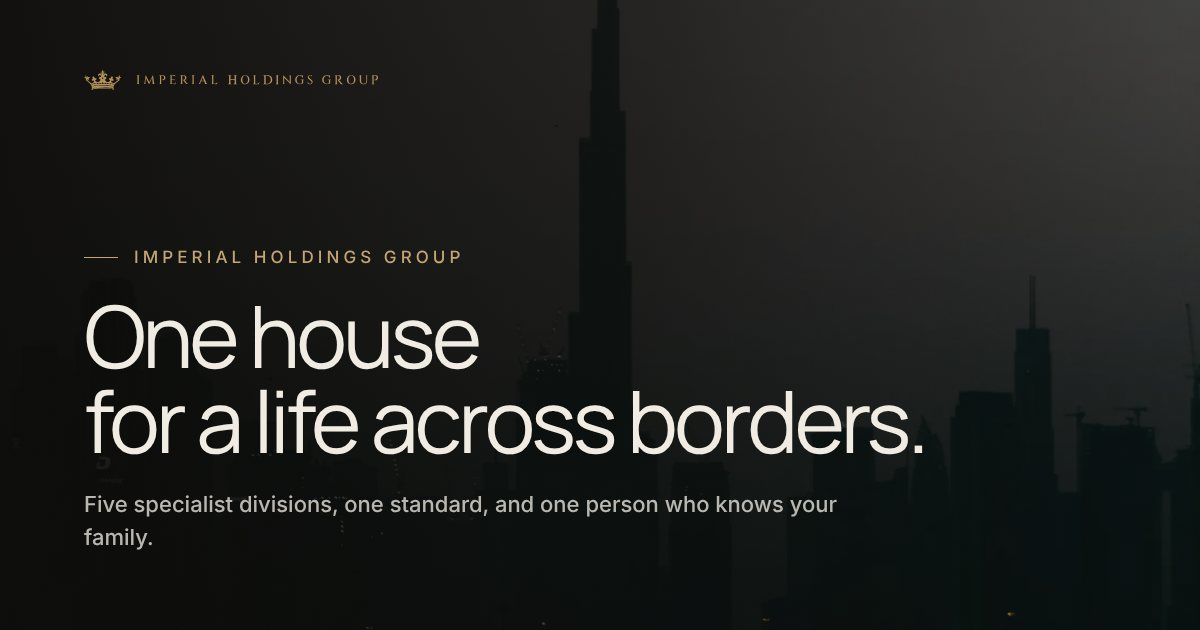
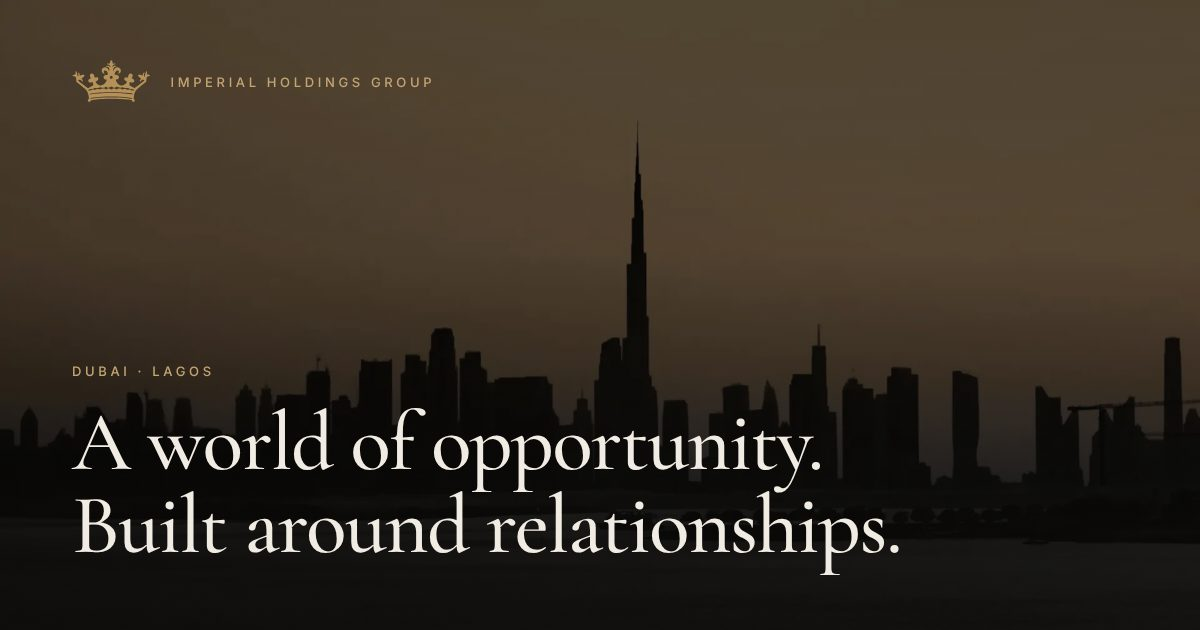
Home hero: Dubai at dusk, the approved copy and an ink map alternative
Export candidate 1 of the photography plan from the Dubai frame (landscape and portrait, cool grade, under 200 KB each) as the single hero layer, and regenerate the share image from it.
Hero copy from the approved option: eyebrow, two line headline, supporting paragraph, Start a relationship and Our divisions.
Drop the night layer, the crossfade and the scroll transform; the hero is no longer pinned.
Add D.hero.style with photo (default) and map, the map being an ink field with the dotted world drawn inline from D.map.
Register the hero photograph with its Unsplash credit.

Claude-Session: https://claude.ai/code/session_01WLDTLCYMrJPXL6atw3Tdtn

diff --git a/assets/js/app.js b/assets/js/app.js
@@ -188,6 +188,25 @@ function fmtTime(tz){try{return new Intl.DateTimeFormat('en-GB',{hour:'2-digit',
    screens, as on the home hero. Every site photograph has a -m file (a 3:4 centre crop of the same frame, so nothing
    changes visually); event photographs and portraits have none. Brief section 4: responsive sizes, LCP on mobile. */
 function heroVariant(k){ return k.indexOf('events/')===0 || k.indexOf('people/')===0 ? '' : '-m'; }
+/* v6: the ink field (docs/PHOTOGRAPHY-PLAN.md 2.1 alternative, section 5). The dotted world already in D.map.path is
+   drawn inline as SVG, cropped to a view in map units (the map is 1440 by 544), with the two offices and one arc where
+   asked: no image file, nothing to credit, nobody to clear. The dots keep their size on screen whatever the crop
+   (vector-effect in site.css), so a tight crop reads as a sparser field, not a coarser one. */
+var INK = {world:[0,0,1440,544], cities:[560,40,640,320], dubai:[761,119,360,200], lagos:[553,194,360,200], europe:[590,0,540,250], gulf:[741,99,400,240], atlantic:[300,30,960,440]};
+var MAP_PTS = null;
+function mapPts(){ if(MAP_PTS) return MAP_PTS; var out = [], re = /M(\d+) (\d+)h0/g, m; while((m = re.exec(D.map.path))) out.push([+m[1], +m[2]]); return (MAP_PTS = out); }
+function inkMap(view, o){
+  o = o || {};
+  var pts = mapPts(), d = '', i, p, x0 = view[0], y0 = view[1], x1 = view[0]+view[2], y1 = view[1]+view[3];
+  for(i=0;i<pts.length;i++){ p = pts[i]; if(p[0]>=x0-8 && p[0]<=x1+8 && p[1]>=y0-8 && p[1]<=y1+8) d += 'M'+p[0]+' '+p[1]+'h0'; }
+  var P = D.map.places, marks = '';
+  if(o.points) P.forEach(function(c){ if(c.x>=x0 && c.x<=x1 && c.y>=y0 && c.y<=y1) marks += '<circle class="ring" cx="'+c.x+'" cy="'+c.y+'" r="11"/><circle class="city" cx="'+c.x+'" cy="'+c.y+'" r="3.5"/>'; });
+  if(o.arc && P.length>1){ var a = P[0], b = P[1], mx = (a.x+b.x)/2, my = Math.min(a.y,b.y)-Math.abs(b.x-a.x)*0.22; marks += '<path class="link" d="M'+a.x+' '+a.y+'Q'+mx.toFixed(0)+' '+my.toFixed(0)+' '+b.x+' '+b.y+'"/>'; }
+  return '<svg class="ink-map'+(o.cls?' '+o.cls:'')+'" viewBox="'+view.join(' ')+'" preserveAspectRatio="xMidYMid meet" aria-hidden="true" focusable="false"><path class="land" d="'+d+'"/>'+marks+'</svg>';
+}
+/* The field itself: the dark ground with a soft lift top right, the map crop when a view is given, and a large outlined
+   numeral when a division asks for one. Decorative, so hidden from assistive technology. */
+function inkField(o){ o = o || {}; return '<div class="ph-ink'+(o.cls?' '+o.cls:'')+'" aria-hidden="true">'+(o.view ? inkMap(o.view, o) : '')+(o.n ? '<span class="ink-n">'+esc(o.n)+'</span>' : '')+'</div>'; }
 function pageHero(o){
   var k = o.img ? safePhoto(o.img, o.fb) : '', v = k ? heroVariant(k) : '';
   var bg = k ? '<div class="ph-bg"><div class="px">'+(v ? '<picture><source media="(max-width:640px)" srcset="'+IMG+k+v+'.webp" sizes="100vw">' : '')+img(k, null, '', '', true)+(v ? '</picture>' : '')+'</div></div>' : '';
@@ -253,7 +272,7 @@ function story(){
 /* ---------- views ---------- */
 var V = {};
 V.home = function(){
-  var N = D.network, HH = D.hero, hk = safePhoto(HH.photo, HH.fallback), nk = photoAllowed(HH.night) ? HH.night : null, hv = homeVideo();
+  var N = D.network, HH = D.hero, hk = HH.style==='map' ? '' : (HH.photo && photoAllowed(HH.photo) ? HH.photo : ''), hv = homeVideo();
   var ev = sortByIso(D.events).filter(function(e){return e.featured;}).slice(0,2), lead = D.leadership.filter(function(l){return l.img;});
   var rows = sortByIso(D.journal).slice(0,3), AUD_SAFE = ['about','academy','closing'];
   /* Our Network grid: own photographs of Imperial gatherings with nobody awaiting consent, chosen so that nothing on
@@ -268,16 +287,17 @@ V.home = function(){
   });
   var held = N.photos.some(function(p){return !photoAllowed(p);});
   return ''+
-  /* hero: the strongest element of the existing site, kept. Two journeys: clients explore the ecosystem, partners go to IPC. */
-  '<section class="hh'+(hk===HH.fallback?' fallback':'')+'" id="top"><div class="hh-pin">'+
-    '<figure class="dusk"><picture><source media="(max-width:640px)" srcset="'+IMG+hk+'-m.webp"><img src="'+IMG+hk+'.webp" alt="'+esc(photoAlt(hk))+'" fetchpriority="high"></picture>'+heroLoop(VID.hero)+'</figure>'+
-    (nk ? '<figure class="night" aria-hidden="true"><picture><source media="(max-width:640px)" srcset="'+IMG+nk+'-m.webp"><img src="'+IMG+nk+'.webp" alt="" decoding="async" fetchpriority="low"></picture></figure>' : '')+
-    '<div class="hh-c wrap">'+eyebrow('Imperial Holdings Group <i>·</i> Dubai <i>·</i> Lagos')+mask(['Two Cities.','One Horizon.'],'h1','d1',.15)+
-    '<p class="lead" data-r style="--d:.55s">Five specialist divisions, one standard, and one person who knows your family.</p>'+
-    '<div class="hh-row" data-r style="--d:.7s"><div class="journeys">'+
-      '<div class="jny"><a class="btn gold mag" href="#/" data-scroll="ecosystem"><span>Explore our ecosystem</span>'+AR+'</a><small>For private clients</small></div>'+
-      '<div class="jny"><a class="btn line" href="#/divisions/partners-club" data-dv="partners-club"><span>Partner with us</span>'+AR+'</a><small>For professional partners</small></div></div>'+
-    '<p class="hh-time" aria-live="off"><i aria-hidden="true"></i><span>In Dubai it is <b class="clock" data-tz="Asia/Dubai" data-fmt="bare">--:--</b>. <span id="greet"></span></span></p><p class="hh-cred" data-r style="--d:.8s">'+tbc(HH.tbc)+'</p></div></div>'+
+  /* v6 hero (docs/PHOTOGRAPHY-PLAN.md 2.1): one architectural photograph (the graded Dubai skyline, with its 3:4 mobile
+     crop and the optional silent loop) or, when D.hero.style is 'map', the ink field with the dotted world drawn inline.
+     No night layer, no crossfade, no scroll-linked motion: only the entrance reveals. The copy comes from D.hero (the
+     approved option A); the two buttons carry the Start a Relationship entries for the home hero. */
+  '<section class="hh'+(hk?'':' ink')+'" id="top"><div class="hh-pin">'+
+    (hk ? '<figure class="dusk"><picture><source media="(max-width:640px)" srcset="'+IMG+hk+'-m.webp"><img src="'+IMG+hk+'.webp" alt="'+esc(photoAlt(hk))+'" fetchpriority="high"></picture>'+heroLoop(VID.hero)+'</figure>'
+        : '<div class="hh-ink" aria-hidden="true">'+inkMap(INK.world, {points:true, arc:true, cls:'wide'})+inkMap(INK.cities, {points:true, arc:true, cls:'tall'})+'</div>')+
+    '<div class="hh-c wrap">'+eyebrow(esc(HH.eyebrow).replace(/ · /g,' <i>·</i> '))+mask(HH.title.map(esc),'h1','d1',.15)+
+    '<p class="lead" data-r style="--d:.55s">'+esc(HH.lead)+'</p>'+
+    '<div class="btns hh-btns" data-r style="--d:.7s"><a class="btn gold mag" href="'+esc(HH.primary.href)+'"><span>'+esc(HH.primary.label)+'</span>'+AR+'</a><a class="btn line" href="'+esc(HH.secondary.href)+'"><span>'+esc(HH.secondary.label)+'</span>'+AR+'</a></div>'+
+    '<div class="hh-row" data-r style="--d:.8s"><p class="hh-time" aria-live="off"><i aria-hidden="true"></i><span>In Dubai it is <b class="clock" data-tz="Asia/Dubai" data-fmt="bare">--:--</b>. <span id="greet"></span></span></p><p class="hh-cred">'+tbc(HH.tbc)+'</p></div></div>'+
     '<span class="cue" aria-hidden="true">Scroll</span></div></section>'+
 
   '<section class="sec"><div class="wrap"><div class="intro"><div>'+eyebrow('The Group')+mask(['A house for a life','across borders.'],'h2','d2')+'</div>'+
@@ -920,13 +940,11 @@ function enhance(){
   }
   // cache scroll-linked elements for this view
   fx = {
-    hh: app.querySelector('.hh'), dusk: app.querySelector('.hh .dusk img'), night: app.querySelector('.hh .night'), nightImg: app.querySelector('.hh .night img'), hc: app.querySelector('.hh-c'),
     pxs: app.querySelectorAll('.ph .px, .closing .px, .nf .px'),
     story: app.querySelector('.story'), chapters: app.querySelectorAll('.chapter'), media: app.querySelectorAll('.story-media figure'), dots: app.querySelectorAll('.story-dots i'), num: document.getElementById('storyNum'), cur: 0,
     words: app.querySelectorAll('#words>span'), wordsEl: document.getElementById('words'),
     reading: document.getElementById('reading'), article: document.getElementById('article')
   };
-  if(fx.night){ fx.night.setAttribute('aria-hidden','true'); if(fx.nightImg && fx.nightImg.decode) fx.nightImg.decode().catch(function(){}); }
   tick(); greet(); onScroll(); bindHouses(); bindMap(); bindIndex(); bindRail(); bindFilters(); bindForms(); bindMagnetic(app); bindFinder(); bindFaq(); bindShare(); bindMedia();
   body.classList.toggle('on-contact', curView==='contact');
 }
@@ -954,14 +972,7 @@ function onScroll(){
   var ft = ftr.getBoundingClientRect().top;
   body.classList.toggle('show-mcta', y > H*0.8 && ft > H - 40);
   if(reduced) return;
-  if(fx.hh){
-    var r = fx.hh.getBoundingClientRect(), p = clamp(-r.top/Math.max(1,r.height-H),0,1), e = p*p*(3-2*p);
-    if(r.bottom > 0){
-      fx.dusk.style.transform = 'scale('+(1.08-0.06*p).toFixed(4)+') translate3d(0,'+(p*3).toFixed(2)+'%,0)';
-      if(fx.night){ fx.night.style.opacity = e.toFixed(3); fx.nightImg.style.transform = 'scale('+(1.14-0.1*p).toFixed(4)+')'; }
-      fx.hc.style.transform = 'translate3d(0,'+(-p*48).toFixed(1)+'px,0)';
-    }
-  }
+  /* v6: the home hero no longer moves on scroll (no dusk-to-night crossfade, no parallax on the headline) */
   [].forEach.call(fx.pxs, function(px){ var s=px.parentNode.parentNode, rr=s.getBoundingClientRect(); if(rr.bottom<0||rr.top>H) return; px.style.transform='translate3d(0,'+((rr.top)*-0.16).toFixed(1)+'px,0)'; });
   if(fx.story && fx.chapters.length){
     var sr = fx.story.getBoundingClientRect(), n = fx.chapters.length, q = clamp(-sr.top/Math.max(1,sr.height-H),0,0.9999);

diff --git a/assets/css/site.css b/assets/css/site.css
@@ -186,7 +186,6 @@ li{max-width:46em}
 .hh-pin{position:sticky;top:0;height:100vh;height:100svh;min-height:600px;overflow:hidden}
 .hh-pin figure{position:absolute;inset:0;margin:0}
 .hh-pin img{width:100%;height:100%;object-fit:cover;will-change:transform,opacity}
-.hh .night{opacity:0}
 .hh-pin::after{content:"";position:absolute;inset:0;background:linear-gradient(180deg,rgba(14,13,11,.62) 0,rgba(14,13,11,.12) 34%,rgba(14,13,11,.25) 60%,rgba(14,13,11,.94) 100%)}
 .hh-c{position:absolute;z-index:2;left:0;right:0;bottom:clamp(36px,9vh,104px)}
 .hh-c .d1{margin:0 0 28px;max-width:11.5em}
@@ -727,7 +726,6 @@ li{max-width:46em}
   [data-r],.mask>span,.clipr,.clipr img{opacity:1!important;transform:none!important;clip-path:none!important}
   .hh{height:auto}
   .hh-pin{position:relative}
-  .hh .night{display:none}
   .story{height:auto}
   .story-pin{position:relative;height:auto;display:block}
   .story-media{display:none}
@@ -1277,9 +1275,6 @@ kbd,.kb{font-family:var(--sans);font-size:11px;letter-spacing:.04em;padding:2px 
 .does .ix-rule{display:block;width:22px;height:18px;background:linear-gradient(var(--gold-ink),var(--gold-ink)) 0 50%/100% 1px no-repeat}
 /* Search palette: a page without a thumbnail shows a short gold rule in its icon box (no dash glyph) */
 .pal-ic.pal-rule::before{content:"";width:14px;height:1px;background:var(--gold-l)}
-/* Home hero while the consent-free fallback photograph shows (.hh.fallback): its own scrim, tuned so the headline, lead
-   and marker sit on a backdrop at least as dark as the approved dusk hero (design review, October 2026) */
-.hh.fallback .hh-pin::after{background:linear-gradient(180deg,rgba(14,13,11,.72) 0,rgba(14,13,11,.50) 34%,rgba(14,13,11,.80) 60%,rgba(14,13,11,.98) 100%)}
 /* Event page: the facts still to confirm, as a row of placeholder chips rather than a note */
 .ev-tbc{display:flex;flex-wrap:wrap;gap:8px;align-items:center}
 /* A placeholder chip inside a key-value list (the booking line on Contact) keeps the chip's sentence-case style
@@ -1290,3 +1285,37 @@ kbd,.kb{font-family:var(--sans);font-size:11px;letter-spacing:.04em;padding:2px 
    width on a phone and the dashed chip stays whole when its text wraps */
 .vid-tbc{left:0;right:0;width:max-content;max-width:calc(100% - 32px);margin:0 auto;transform:translateY(-50%)}
 .vid-tbc .tbc{white-space:normal;line-height:1.5}
+
+/* === v6 home === */
+/* The refined home page (docs/BRAND-BRIEF.md v6, docs/PHOTOGRAPHY-PLAN.md section 2) and the ink field used wherever a
+   photograph no longer belongs. Tokens only: ink and paper, gold for emphasis, Cormorant Garamond and Inter. */
+/* Hero: one architectural photograph, the entrance reveals and nothing else. No night layer, no crossfade and no
+   scroll-linked transforms, so the section is as tall as the viewport (taller when its copy needs it) and no longer
+   pinned behind a 175vh scroll zone. */
+.hh{height:auto}
+.hh-pin{position:relative;height:auto;min-height:100vh;min-height:100svh;display:flex;align-items:flex-end;padding-top:calc(var(--hdrH) + 48px)}
+.hh-pin img{will-change:auto}
+.hh-c{position:relative;bottom:auto;width:100%;padding-bottom:clamp(36px,8vh,96px)}
+.hh-c .d1{max-width:12.5em}
+.hh-btns{margin-bottom:30px}
+.hh-row{align-items:center;gap:16px 40px}
+.hh-cred{margin:0}
+/* The ink field: the dark ground with a soft lift top right and, where a view is given, the dotted world as inline SVG
+   (D.map.path through inkMap in app.js), the two offices in gold and one thin arc. The dots keep their size on screen
+   whatever the crop, so a close crop is a sparser field rather than a coarser one. */
+.hh-ink,.ph-ink{position:absolute;inset:0;overflow:hidden;background:var(--ink)}
+.hh-ink::before,.ph-ink::before{content:"";position:absolute;inset:0;background:radial-gradient(ellipse 70% 80% at 88% 6%,rgba(241,236,227,.075),transparent 68%)}
+.ink-map{position:absolute;display:block;overflow:visible}
+.ink-map .land{fill:none;stroke:rgba(241,236,227,.2);stroke-width:2.4px;stroke-linecap:round;vector-effect:non-scaling-stroke}
+.ink-map .city{fill:var(--gold)}
+.ink-map .ring{fill:none;stroke:var(--gold);stroke-width:1px;opacity:.5;vector-effect:non-scaling-stroke}
+.ink-map .link{fill:none;stroke:var(--gold);stroke-width:1px;opacity:.6;vector-effect:non-scaling-stroke}
+.hh-ink .ink-map{right:-2%;top:7%;width:min(96vw,1500px);height:auto}
+.hh-ink .ink-map.tall{display:none}
+.hh.ink .hh-pin::after{background:linear-gradient(180deg,rgba(14,13,11,0) 0,rgba(14,13,11,0) 46%,rgba(14,13,11,.74) 100%)}
+@media (max-width:640px){
+  .hh-pin{padding-top:calc(var(--hdrH) + 32px)}
+  .hh-c .d1{max-width:none}
+  .hh-ink .ink-map.wide{display:none}
+  .hh-ink .ink-map.tall{display:block;width:150vw;right:-40vw;top:10%}
+}

diff --git a/assets/js/data.js b/assets/js/data.js
@@ -51,8 +51,10 @@ window.IHG = {
      TO CONFIRM: the seven entries marked placeholder:true were supplied as own photographs but look like generated
      scenes rather than photographs of our offices or cities; the professional shoot (docs/PHOTO-SHOT-LIST.md) replaces them. */
   photos: [
-    {key:'hero', own:true, consent:false, event:'lagos-office-event', src:'events/lagos-office-event/cover', what:'Guests at the Lagos office on Aromire Road, Ikoyi'},
-    {key:'hero-night', own:true, consent:false, event:'gala-dinner-lagos', src:'events/gala-dinner-lagos/cover', what:'A speaker at the Imperial Citizenship gala dinner, Lagos'},
+    /* v6 (docs/PHOTOGRAPHY-PLAN.md 2.1, candidate 1): the home hero is the credited Dubai skyline at dusk, graded cool and
+       exported from dubai.webp (hero.webp 1920 x 1080, hero-m.webp 900 x 1125; the recipe is in the plan). No person is in
+       frame, so no consent is needed; the Unsplash credit line in the footer covers it. Interim until the city shoot. */
+    {key:'hero', own:false, consent:true, id:'7Zt3XXXp3II', by:'Anoof C', src:'Unsplash', what:'Dubai at dusk'},
     {key:'hero-lights', own:true, consent:true, src:'events/gala-dinner-lagos/01', what:'Stage lights at the Imperial Citizenship gala dinner, Lagos'},
     {key:'events/gala-dinner-lagos/stage', own:true, consent:true, src:'events/gala-dinner-lagos/cover', what:'Stage lights at the Imperial Citizenship gala dinner, Lagos'},
     {key:'events/easter-polo-cup-2026/02', own:true, consent:true, what:'Polo at Lagos Polo Club, Ikoyi'},
@@ -105,17 +107,22 @@ window.IHG = {
     {key:'people/hekma', own:true, consent:true, what:'Hekma Iskandarani, Group Chief Operating Officer'}
   ],
 
-  /* Home hero (v5). photo and night show when consent is recorded for their event, or in preview builds; until then the
-     page shows fallback, an own photograph without guests: hero-lights, the stage lights above the speaker at the
-     Imperial Citizenship gala dinner in Lagos (a crop of events/gala-dinner-lagos/01 with nobody in frame). It was
-     chosen because it is dark, so the approved dark hero and its cream headline survive (design review, October 2026:
-     the earlier fallback, the white Imperial Citizenship press backdrop, washed the hero out and showed a sister
-     brand's crest through the Group's headline). The page adds the class "fallback" to the hero while this photograph
-     shows, which carries its own scrim. The two preload lines in index.html point at the fallback files; the build
-     rewrites them per page. TO CONFIRM (Founder), in this order: (1) consent for events/lagos-office-event/cover (the
-     photos entry "hero"), the photograph shot as the hero, which then replaces the fallback at once; (2) the final hero
-     photograph from the shoot (docs/PHOTO-SHOT-LIST.md), marked on the page by the "Final hero photo" chip. */
-  hero: {photo:'hero', night:'hero-night', fallback:'hero-lights', tbc:'Final hero photo'},
+  /* Home hero (v6, docs/BRAND-BRIEF.md section 3, docs/PHOTOGRAPHY-PLAN.md 2.1). style is 'photo' (the default: the
+     graded Dubai skyline, photos entry "hero", with its 3:4 mobile crop) or 'map' (no photograph: the ink field with the
+     dotted world from map.path drawn inline by app.js, the two cities and one arc). There is no night layer and no
+     crossfade any more. The copy is the approved option A (scratchpad v6/hero/hero-final.json): eyebrow, the two-line
+     headline, the supporting paragraph and the two buttons (docs/relationship-journey.json, entries 1 and 2). The
+     "Final hero photo" chip (tbc) stays on the page until the city shoot delivers the permanent frame.
+     TO CONFIRM (Founder): candidate 1 or the map alternative, and a credited licensed photograph on the home page. */
+  hero: {
+    style:'photo',
+    photo:'hero', tbc:'Final hero photo',
+    eyebrow:'Imperial Holdings Group · Dubai · Lagos',
+    title:['A world of opportunity.','Built around relationships.'],
+    lead:'An international group bringing together mobility, private client services, real estate and professional partnerships. One connected ecosystem, serving ambitions that extend beyond borders. One named person looks after each relationship for the long term, with the judgement to say plainly what is possible, and what is not.',
+    primary:{label:'Start a relationship', href:'#/contact?via=hero'},
+    secondary:{label:'Our divisions', href:'#/divisions'}
+  },
 
   /* Video (v5). One shape everywhere: {type:'video', provider:'vimeo'|'mux', id:'', poster:'<photo key>',
      captions:'assets/captions/<slug>.vtt', title:'', duration:'', tbc:'...'}. An empty id renders the poster and the

diff --git a/index.html b/index.html
@@ -25,8 +25,8 @@
 <link rel="icon" type="image/svg+xml" href="assets/logos/Imperial-Crown-Gold.svg">
 <link rel="apple-touch-icon" href="assets/img/icon-180.png">
 <link rel="manifest" href="site.webmanifest">
-<link rel="preload" as="image" href="assets/img/hero-lights.webp" media="(min-width:641px)" fetchpriority="high">
-<link rel="preload" as="image" href="assets/img/hero-lights-m.webp" media="(max-width:640px)" fetchpriority="high">
+<link rel="preload" as="image" href="assets/img/hero.webp" media="(min-width:641px)" fetchpriority="high">
+<link rel="preload" as="image" href="assets/img/hero-m.webp" media="(max-width:640px)" fetchpriority="high">
 <link rel="preload" as="font" type="font/woff2" href="assets/fonts/cormorant-garamond-latin-500-normal.woff2" crossorigin>
 <link rel="preload" as="font" type="font/woff2" href="assets/fonts/inter-latin-400-normal.woff2" crossorigin>
 <link rel="stylesheet" href="shared/tokens.css?v=5">
